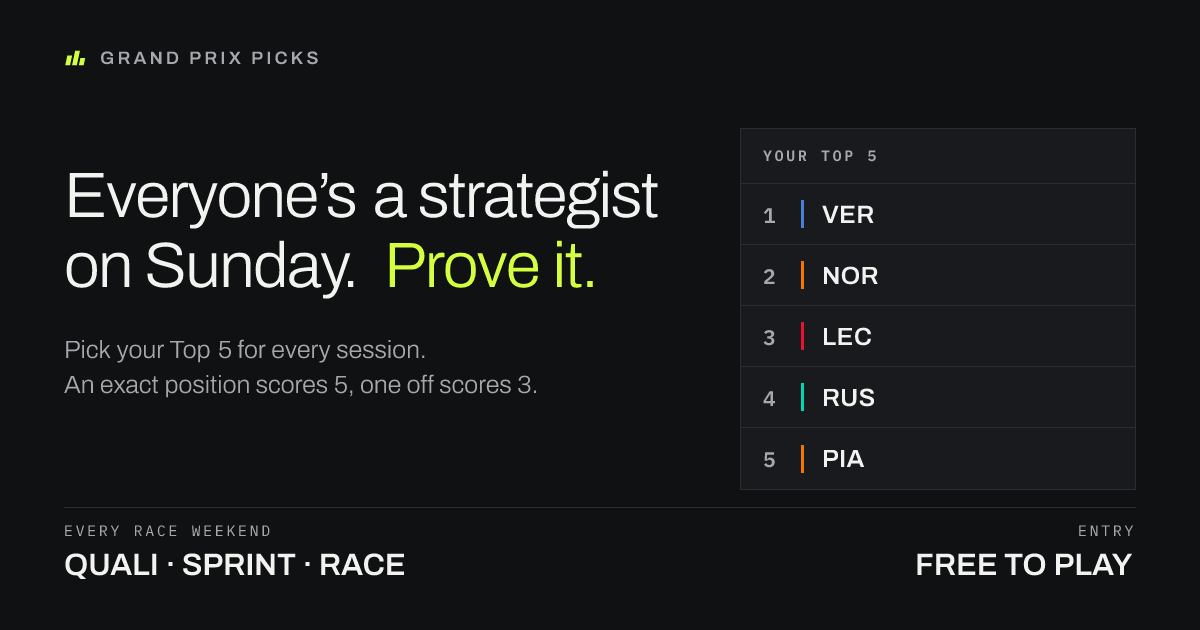
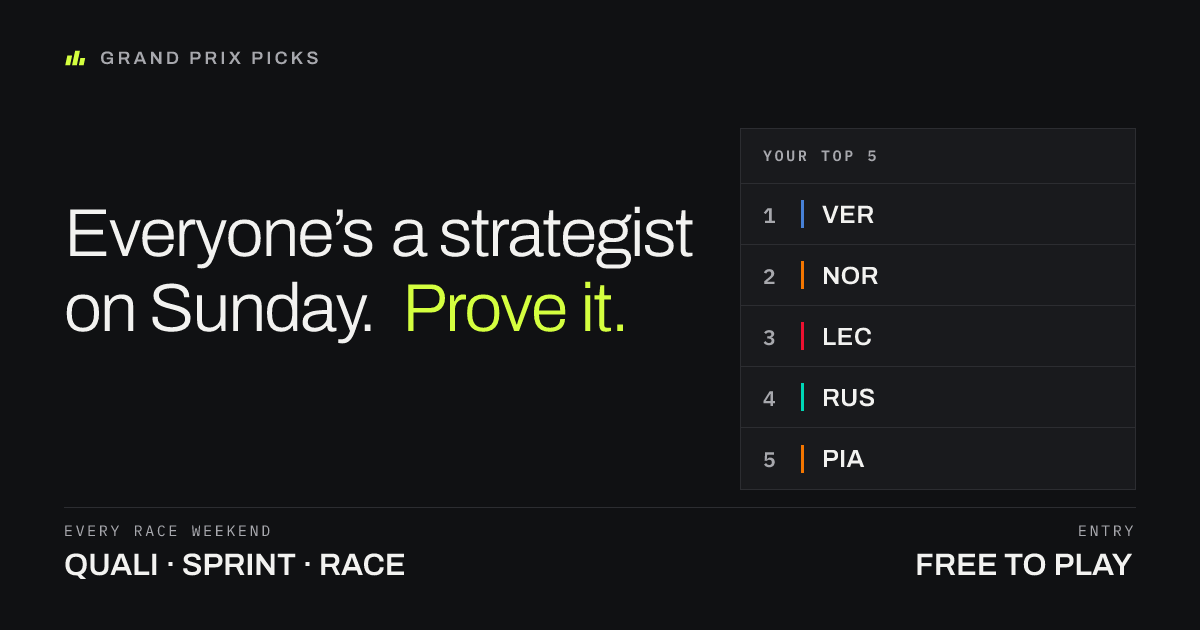
Cut the scoring line from the OG card
The card's job is the tap, not the tutorial. How a pick scores is a
second-visit question: somebody deciding whether to open a link in a
group chat does not need the points table, and the two lines spelling it
out were the last survivors of the explainer tiles removed in f2d40f7f.

The headline takes the space back at 68px, and the deadline gets the 3px
accent rail the landing page puts beside its session clock — the one
thing on the card arguing for now rather than later, and now the only
accent besides "Prove it." It left-aligns under the pick sheet, so the
right side reads as one stack: what you would do, and by when.

`bandStat` builds that rail by spreading a conditional object rather than
setting `borderLeft: undefined`, which throws inside satori 0.29's style
expander. Every OG route catches its own errors and serves the static
fallback, so that mistake would have shipped as a card that silently
never names the Grand Prix — the same failure mode as the satori bump in
99ec750.

Claude-Session: https://claude.ai/code/session_01RT8AVJS8d6pvzyM8Y1P2zH

Changed region(s): [[0.0308, 0.2714, 0.5858, 0.573], [0.0617, 0.6032, 0.4625, 0.6333]]

diff --git a/apps/web/src/lib/og/templates.ts b/apps/web/src/lib/og/templates.ts
@@ -375,11 +375,11 @@ function brandHeadline(): ReactNode {
       style: {
         display: 'flex',
         flexDirection: 'column' as const,
-        fontSize: 64,
+        fontSize: 68,
         fontWeight: 300,
-        letterSpacing: -1.6,
+        letterSpacing: -1.8,
         lineHeight: 1.1,
-        maxWidth: 640,
+        maxWidth: 660,
       },
     },
     // Typographic apostrophe: the straight quote is the one glyph on this card
@@ -400,35 +400,6 @@ function brandHeadline(): ReactNode {
 }
 
 /**
- * The mechanic, in two spoken lines.
- *
- * This is what the three bordered scoring tiles used to say. The tiles set
- * 5 / 3 / 1 in magenta, green and yellow, which put four saturated hues on a
- * card whose palette is one rare accent, and they said in ~130px of chrome
- * what a sentence says in a line. The numbers still matter — they are the
- * detail that decides whether a stranger bothers — so they stay, as prose.
- */
-function brandSubtext(): ReactNode {
-  return e(
-    'div',
-    {
-      style: {
-        display: 'flex',
-        flexDirection: 'column' as const,
-        marginTop: 32,
-        maxWidth: 600,
-        fontSize: 25,
-        fontWeight: 300,
-        lineHeight: 1.4,
-        color: colors.textMuted,
-      },
-    },
-    e('div', {}, 'Pick your Top 5 for every session.'),
-    e('div', {}, 'An exact position scores 5, one off scores 3.'),
-  );
-}
-
-/**
  * A label over a figure, the way the app sets every piece of timing data.
  *
  * `mono` follows the site's split rather than taste: IBM Plex Mono is for
@@ -439,6 +410,7 @@ function bandStat(
   value: string,
   align: 'flex-start' | 'flex-end',
   mono = false,
+  rail = false,
 ): ReactNode {
   return e(
     'div',
@@ -447,6 +419,17 @@ function bandStat(
         display: 'flex',
         flexDirection: 'column' as const,
         alignItems: align,
+        // The same 3px accent rail the landing page puts beside its session
+        // clock. It is the one thing on the card marking why a reader should
+        // tap now rather than later.
+        //
+        // Spread rather than set to `undefined`: satori 0.29 runs every style
+        // value through its own expander, and an undefined `borderLeft` throws
+        // there. Every OG route catches its own errors and serves the static
+        // fallback, so that mistake ships as a card that never names the race.
+        ...(rail
+          ? { borderLeft: `3px solid ${colors.accent}`, paddingLeft: 22 }
+          : {}),
       },
     },
     e(
@@ -534,11 +517,10 @@ function brandCardFrame(bandLeft: ReactNode, bandRight: ReactNode): ReactNode {
           flexDirection: 'column' as const,
           position: 'absolute' as const,
           left: 64,
-          top: 160,
+          top: 196,
         },
       },
       brandHeadline(),
-      brandSubtext(),
     ),
     pickSheet(),
     // The system's one elevation mechanism, separating the pitch from the data.
@@ -616,7 +598,8 @@ export function nextRaceTemplate(data: NextRaceOgData): ReactNode {
     bandStat(
       'PICKS LOCK',
       `${data.lockDate}  ${data.lockTime}`,
-      'flex-end',
+      'flex-start',
+      true,
       true,
     ),
   );
